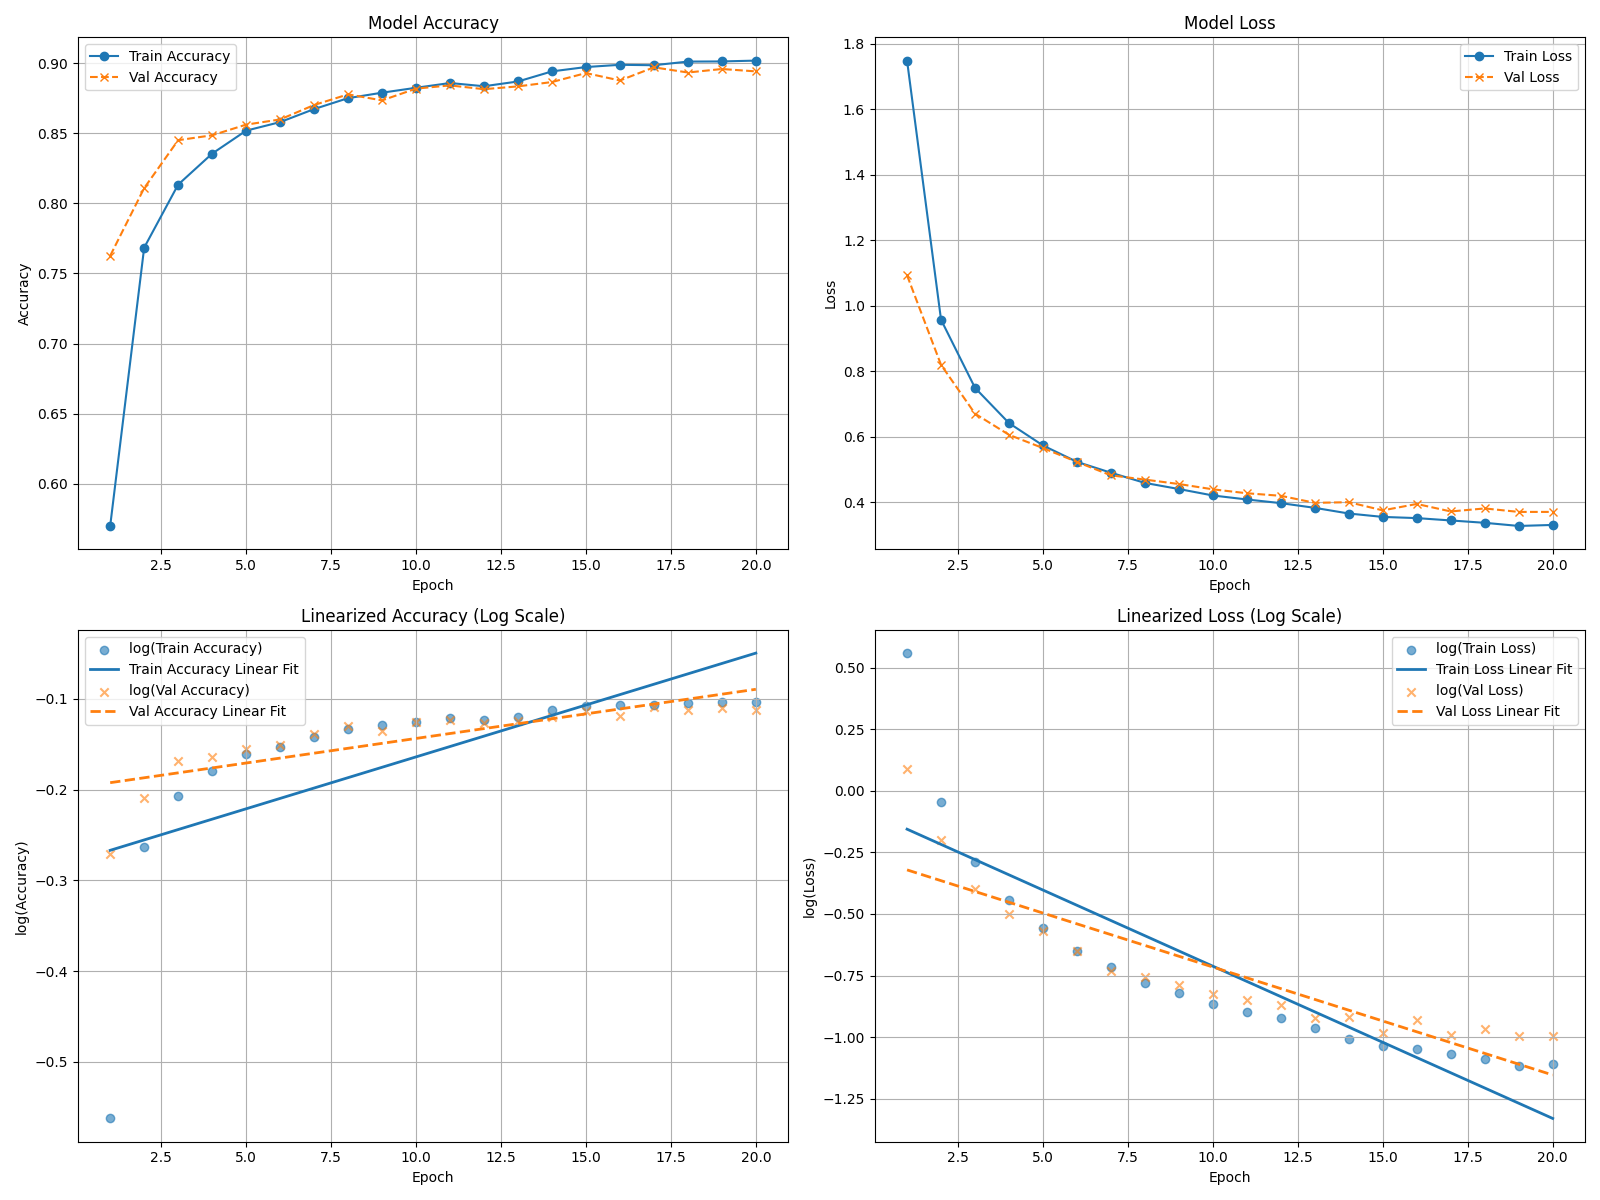
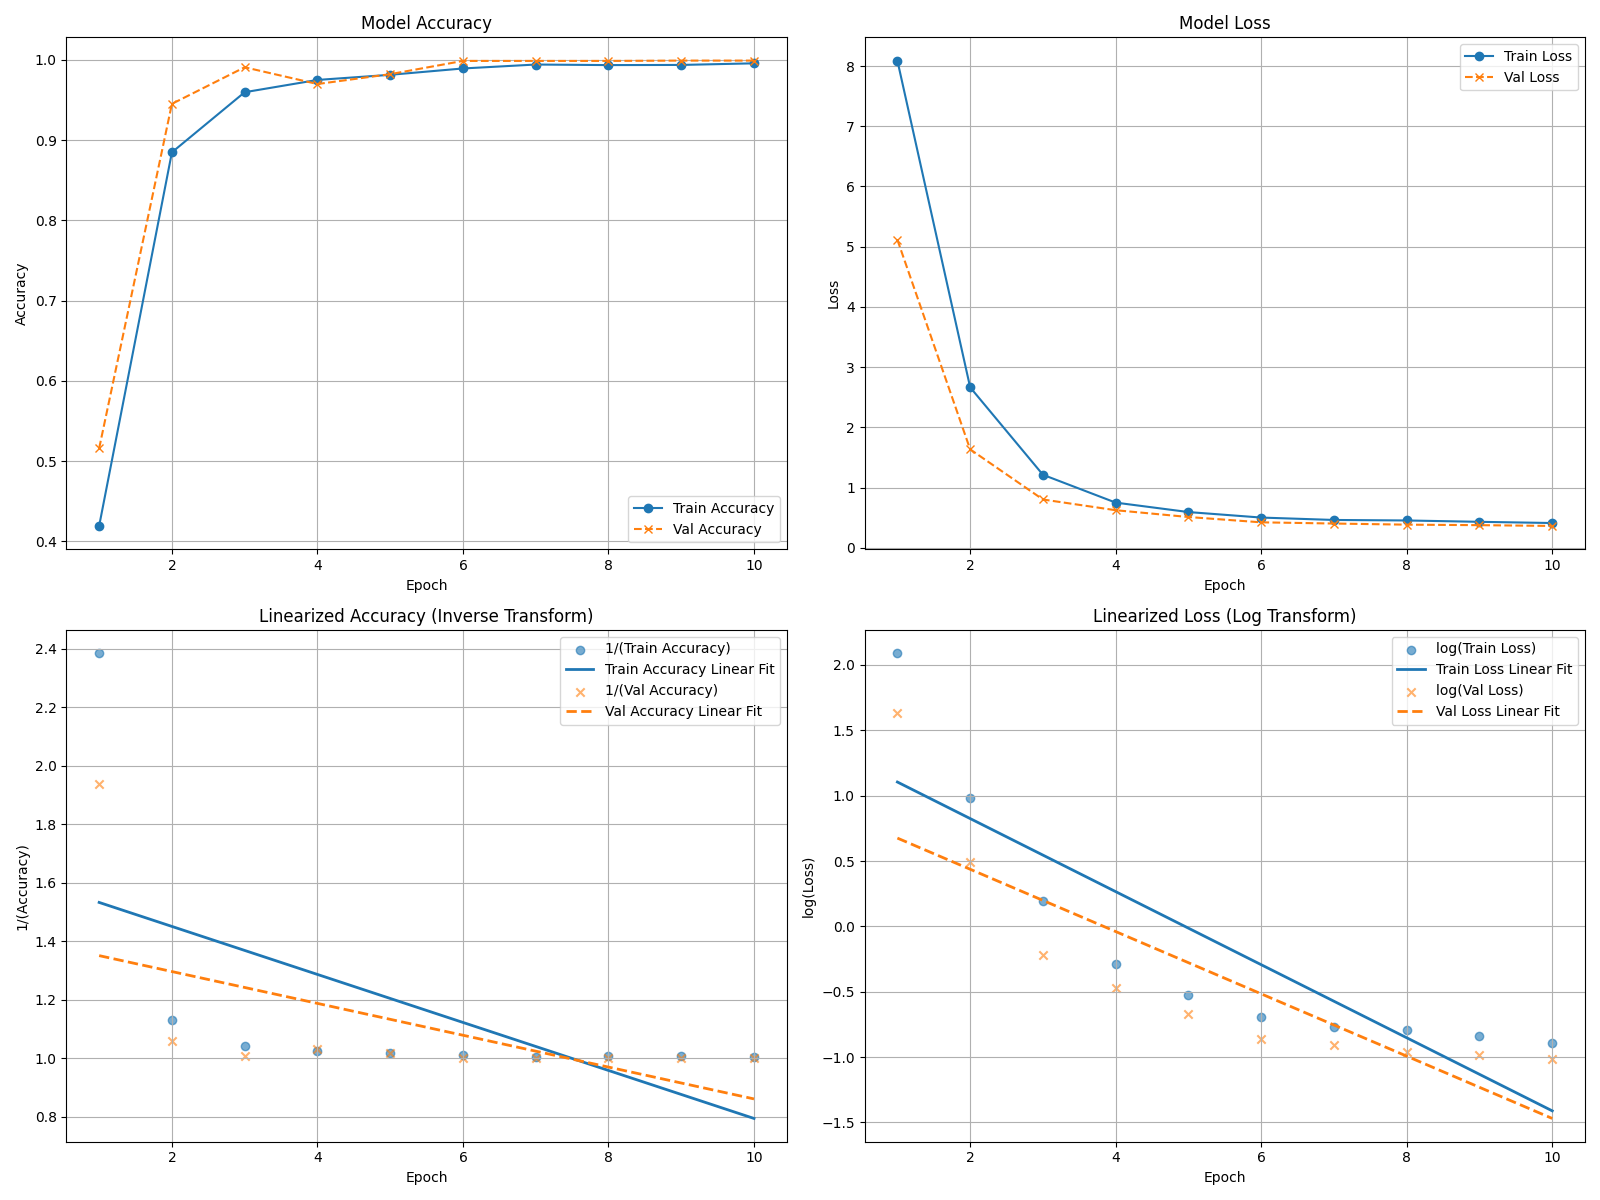
linear regression finalized

diff --git a/Accuracy.py b/Accuracy.py
@@ -37,32 +37,32 @@ def acc_det(data, name):
     epochs = df.index.values.reshape(-1, 1)
     regression_stats = {}
     
-    # Subplot 3: Linearized Accuracy with Linear Regression
+    # Subplot 3: Linearized Accuracy with Linear Regression (Inverse Transform)
     plt.subplot(2, 2, 3)
     
-    # Train Accuracy - log transform and linear fit
+    # Train Accuracy - inverse transform for saturation curve: 1/y vs x
     train_acc = df['accuracy'].values.reshape(-1, 1)
-    train_acc_log = np.log(train_acc)
+    train_acc_inv = 1 / train_acc
     model_train_acc = LinearRegression()
-    model_train_acc.fit(epochs, train_acc_log)
-    train_acc_log_pred = model_train_acc.predict(epochs)
+    model_train_acc.fit(epochs, train_acc_inv)
+    train_acc_inv_pred = model_train_acc.predict(epochs)
     
-    plt.scatter(df.index, train_acc_log, label='log(Train Accuracy)', marker='o', alpha=0.6)
-    plt.plot(df.index, train_acc_log_pred, label='Train Accuracy Linear Fit', linestyle='-', linewidth=2)
+    plt.scatter(df.index, train_acc_inv, label='1/(Train Accuracy)', marker='o', alpha=0.6)
+    plt.plot(df.index, train_acc_inv_pred, label='Train Accuracy Linear Fit', linestyle='-', linewidth=2)
     
-    # Val Accuracy - log transform and linear fit
+    # Val Accuracy - inverse transform
     val_acc = df['val_accuracy'].values.reshape(-1, 1)
-    val_acc_log = np.log(val_acc)
+    val_acc_inv = 1 / val_acc
     model_val_acc = LinearRegression()
-    model_val_acc.fit(epochs, val_acc_log)
-    val_acc_log_pred = model_val_acc.predict(epochs)
+    model_val_acc.fit(epochs, val_acc_inv)
+    val_acc_inv_pred = model_val_acc.predict(epochs)
     
-    plt.scatter(df.index, val_acc_log, label='log(Val Accuracy)', marker='x', alpha=0.6)
-    plt.plot(df.index, val_acc_log_pred, label='Val Accuracy Linear Fit', linestyle='--', linewidth=2)
+    plt.scatter(df.index, val_acc_inv, label='1/(Val Accuracy)', marker='x', alpha=0.6)
+    plt.plot(df.index, val_acc_inv_pred, label='Val Accuracy Linear Fit', linestyle='--', linewidth=2)
     
-    plt.title('Linearized Accuracy (Log Scale)')
+    plt.title('Linearized Accuracy (Inverse Transform)')
     plt.xlabel('Epoch')
-    plt.ylabel('log(Accuracy)')
+    plt.ylabel('1/(Accuracy)')
     plt.legend()
     plt.grid(True)
     
@@ -70,21 +70,23 @@ def acc_det(data, name):
     regression_stats['train_accuracy'] = {
         'slope': model_train_acc.coef_[0][0],
         'intercept': model_train_acc.intercept_[0],
-        'r2_score': r2_score(train_acc_log, train_acc_log_pred),
-        'rmse': root_mean_squared_error(train_acc_log, train_acc_log_pred)
+        'r2_score': r2_score(train_acc_inv, train_acc_inv_pred),
+        'rmse': root_mean_squared_error(train_acc_inv, train_acc_inv_pred),
+        'predicted_limit': 1 / model_train_acc.intercept_[0] if model_train_acc.intercept_[0] > 0 else None
     }
     
     regression_stats['val_accuracy'] = {
         'slope': model_val_acc.coef_[0][0],
         'intercept': model_val_acc.intercept_[0],
-        'r2_score': r2_score(val_acc_log, val_acc_log_pred),
-        'rmse': root_mean_squared_error(val_acc_log, val_acc_log_pred)
+        'r2_score': r2_score(val_acc_inv, val_acc_inv_pred),
+        'rmse': root_mean_squared_error(val_acc_inv, val_acc_inv_pred),
+        'predicted_limit': 1 / model_val_acc.intercept_[0] if model_val_acc.intercept_[0] > 0 else None
     }
     
-    # Subplot 4: Linearized Loss with Linear Regression
+    # Subplot 4: Linearized Loss with Linear Regression (Log Transform)
     plt.subplot(2, 2, 4)
     
-    # Train Loss - log transform and linear fit
+    # Train Loss - log transform for exponential decay
     train_loss = df['loss'].values.reshape(-1, 1)
     train_loss_log = np.log(train_loss)
     model_train_loss = LinearRegression()
@@ -94,7 +96,7 @@ def acc_det(data, name):
     plt.scatter(df.index, train_loss_log, label='log(Train Loss)', marker='o', alpha=0.6)
     plt.plot(df.index, train_loss_log_pred, label='Train Loss Linear Fit', linestyle='-', linewidth=2)
     
-    # Val Loss - log transform and linear fit
+    # Val Loss - log transform
     val_loss = df['val_loss'].values.reshape(-1, 1)
     val_loss_log = np.log(val_loss)
     model_val_loss = LinearRegression()
@@ -104,7 +106,7 @@ def acc_det(data, name):
     plt.scatter(df.index, val_loss_log, label='log(Val Loss)', marker='x', alpha=0.6)
     plt.plot(df.index, val_loss_log_pred, label='Val Loss Linear Fit', linestyle='--', linewidth=2)
     
-    plt.title('Linearized Loss (Log Scale)')
+    plt.title('Linearized Loss (Log Transform)')
     plt.xlabel('Epoch')
     plt.ylabel('log(Loss)')
     plt.legend()
@@ -115,14 +117,16 @@ def acc_det(data, name):
         'slope': model_train_loss.coef_[0][0],
         'intercept': model_train_loss.intercept_[0],
         'r2_score': r2_score(train_loss_log, train_loss_log_pred),
-        'rmse': root_mean_squared_error(train_loss_log, train_loss_log_pred)
+        'rmse': root_mean_squared_error(train_loss_log, train_loss_log_pred),
+        'decay_rate': -model_train_loss.coef_[0][0]
     }
     
     regression_stats['val_loss'] = {
         'slope': model_val_loss.coef_[0][0],
         'intercept': model_val_loss.intercept_[0],
         'r2_score': r2_score(val_loss_log, val_loss_log_pred),
-        'rmse': root_mean_squared_error(val_loss_log, val_loss_log_pred)
+        'rmse': root_mean_squared_error(val_loss_log, val_loss_log_pred),
+        'decay_rate': -model_val_loss.coef_[0][0]
     }
     
     plt.tight_layout()
